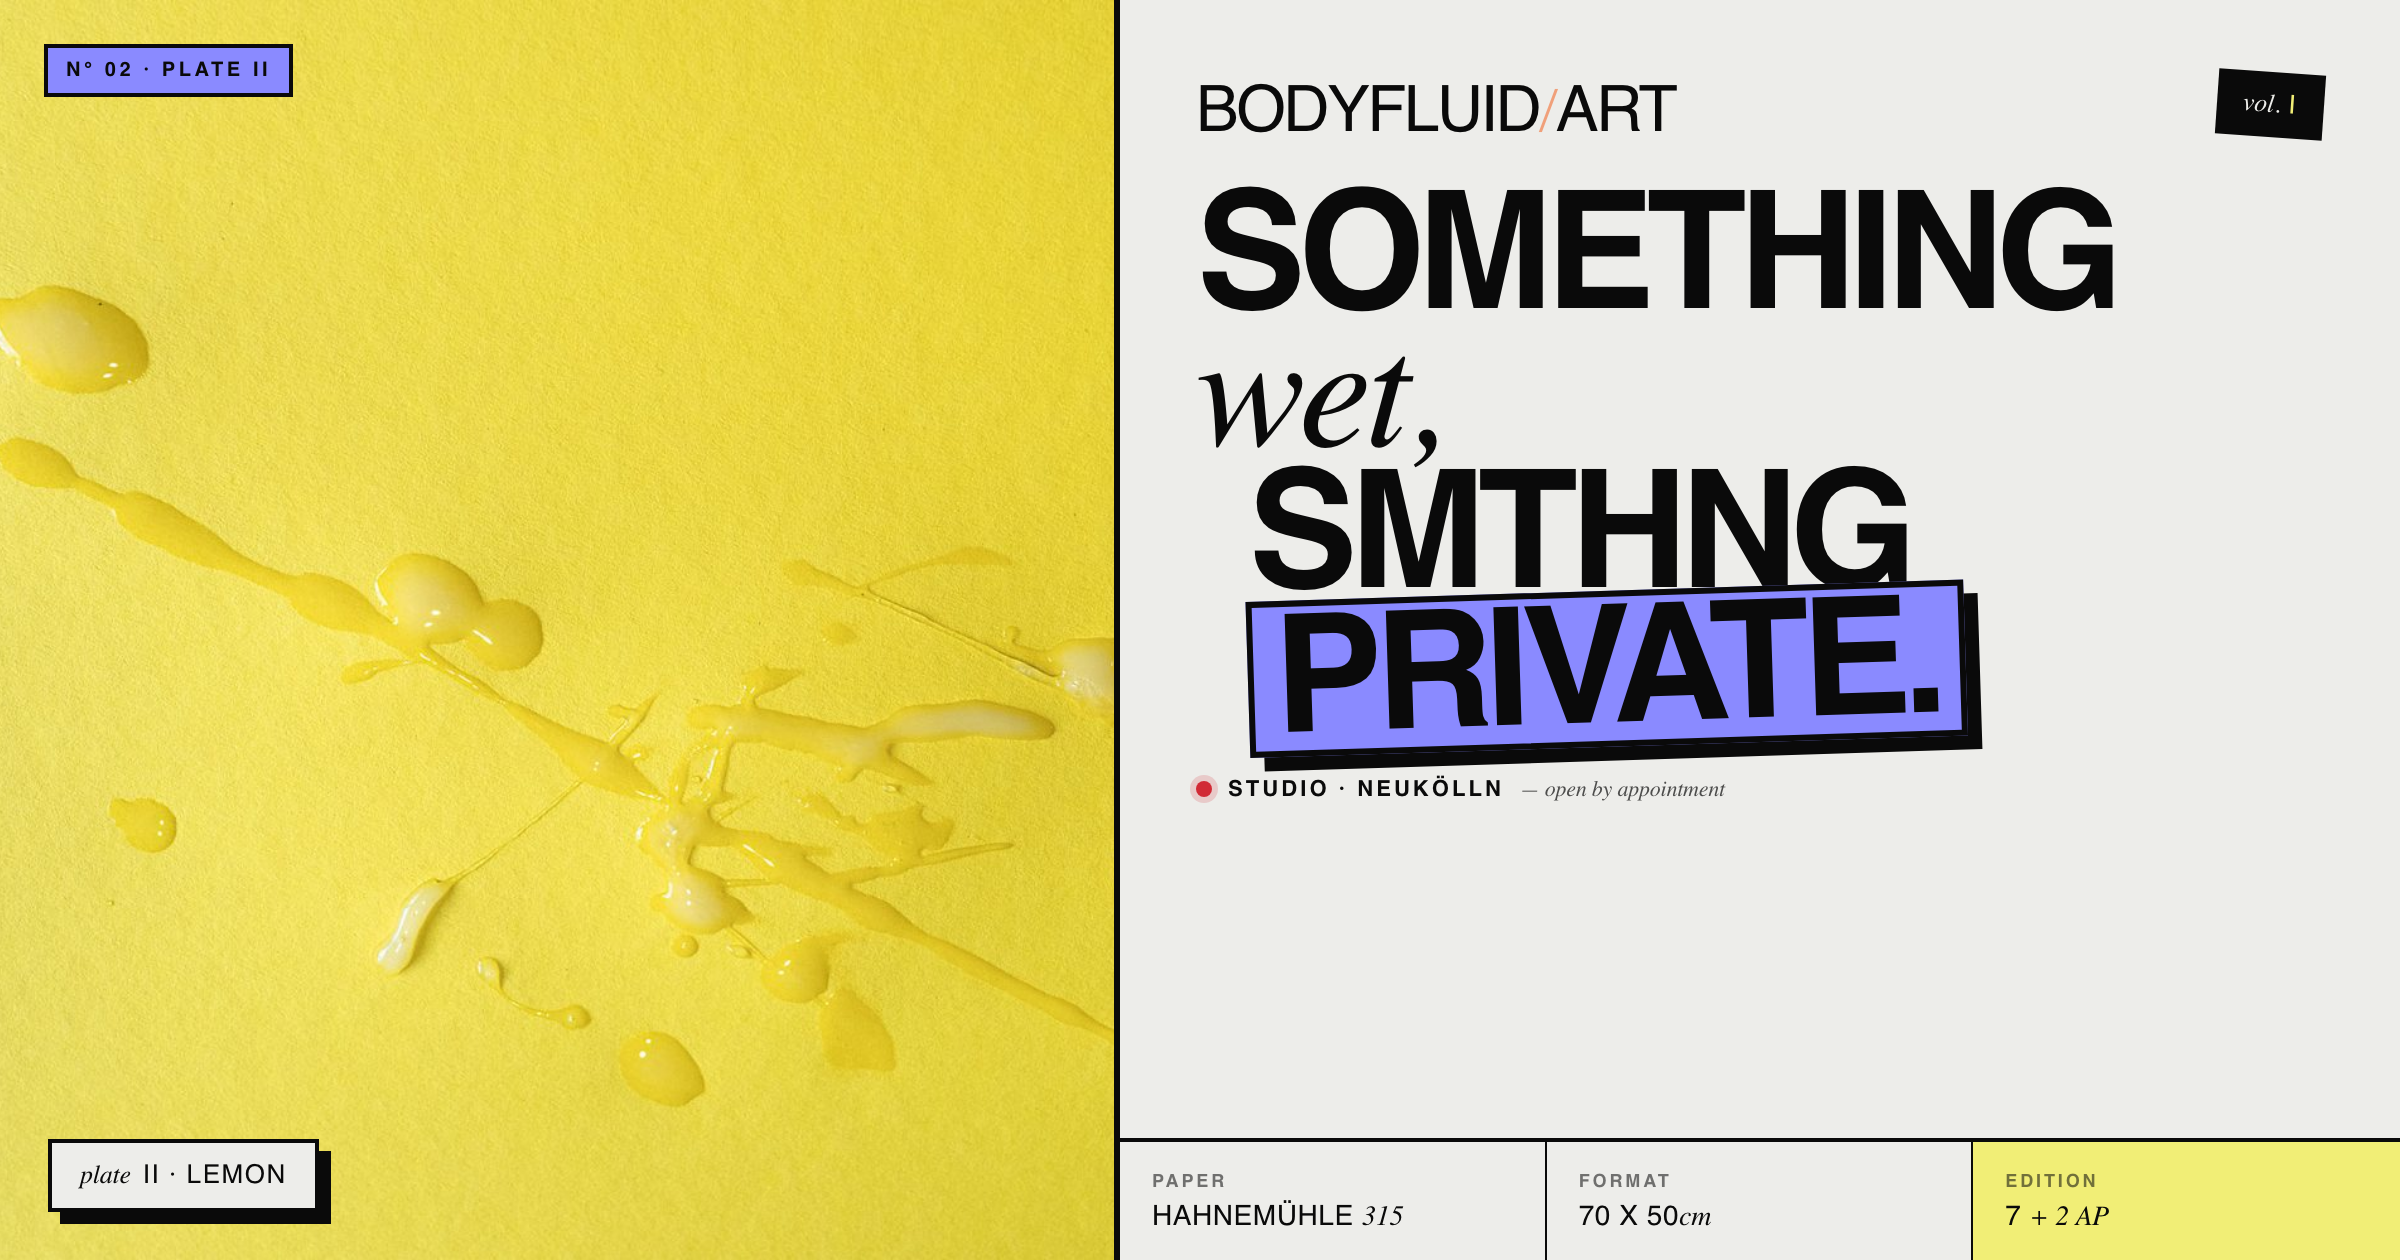
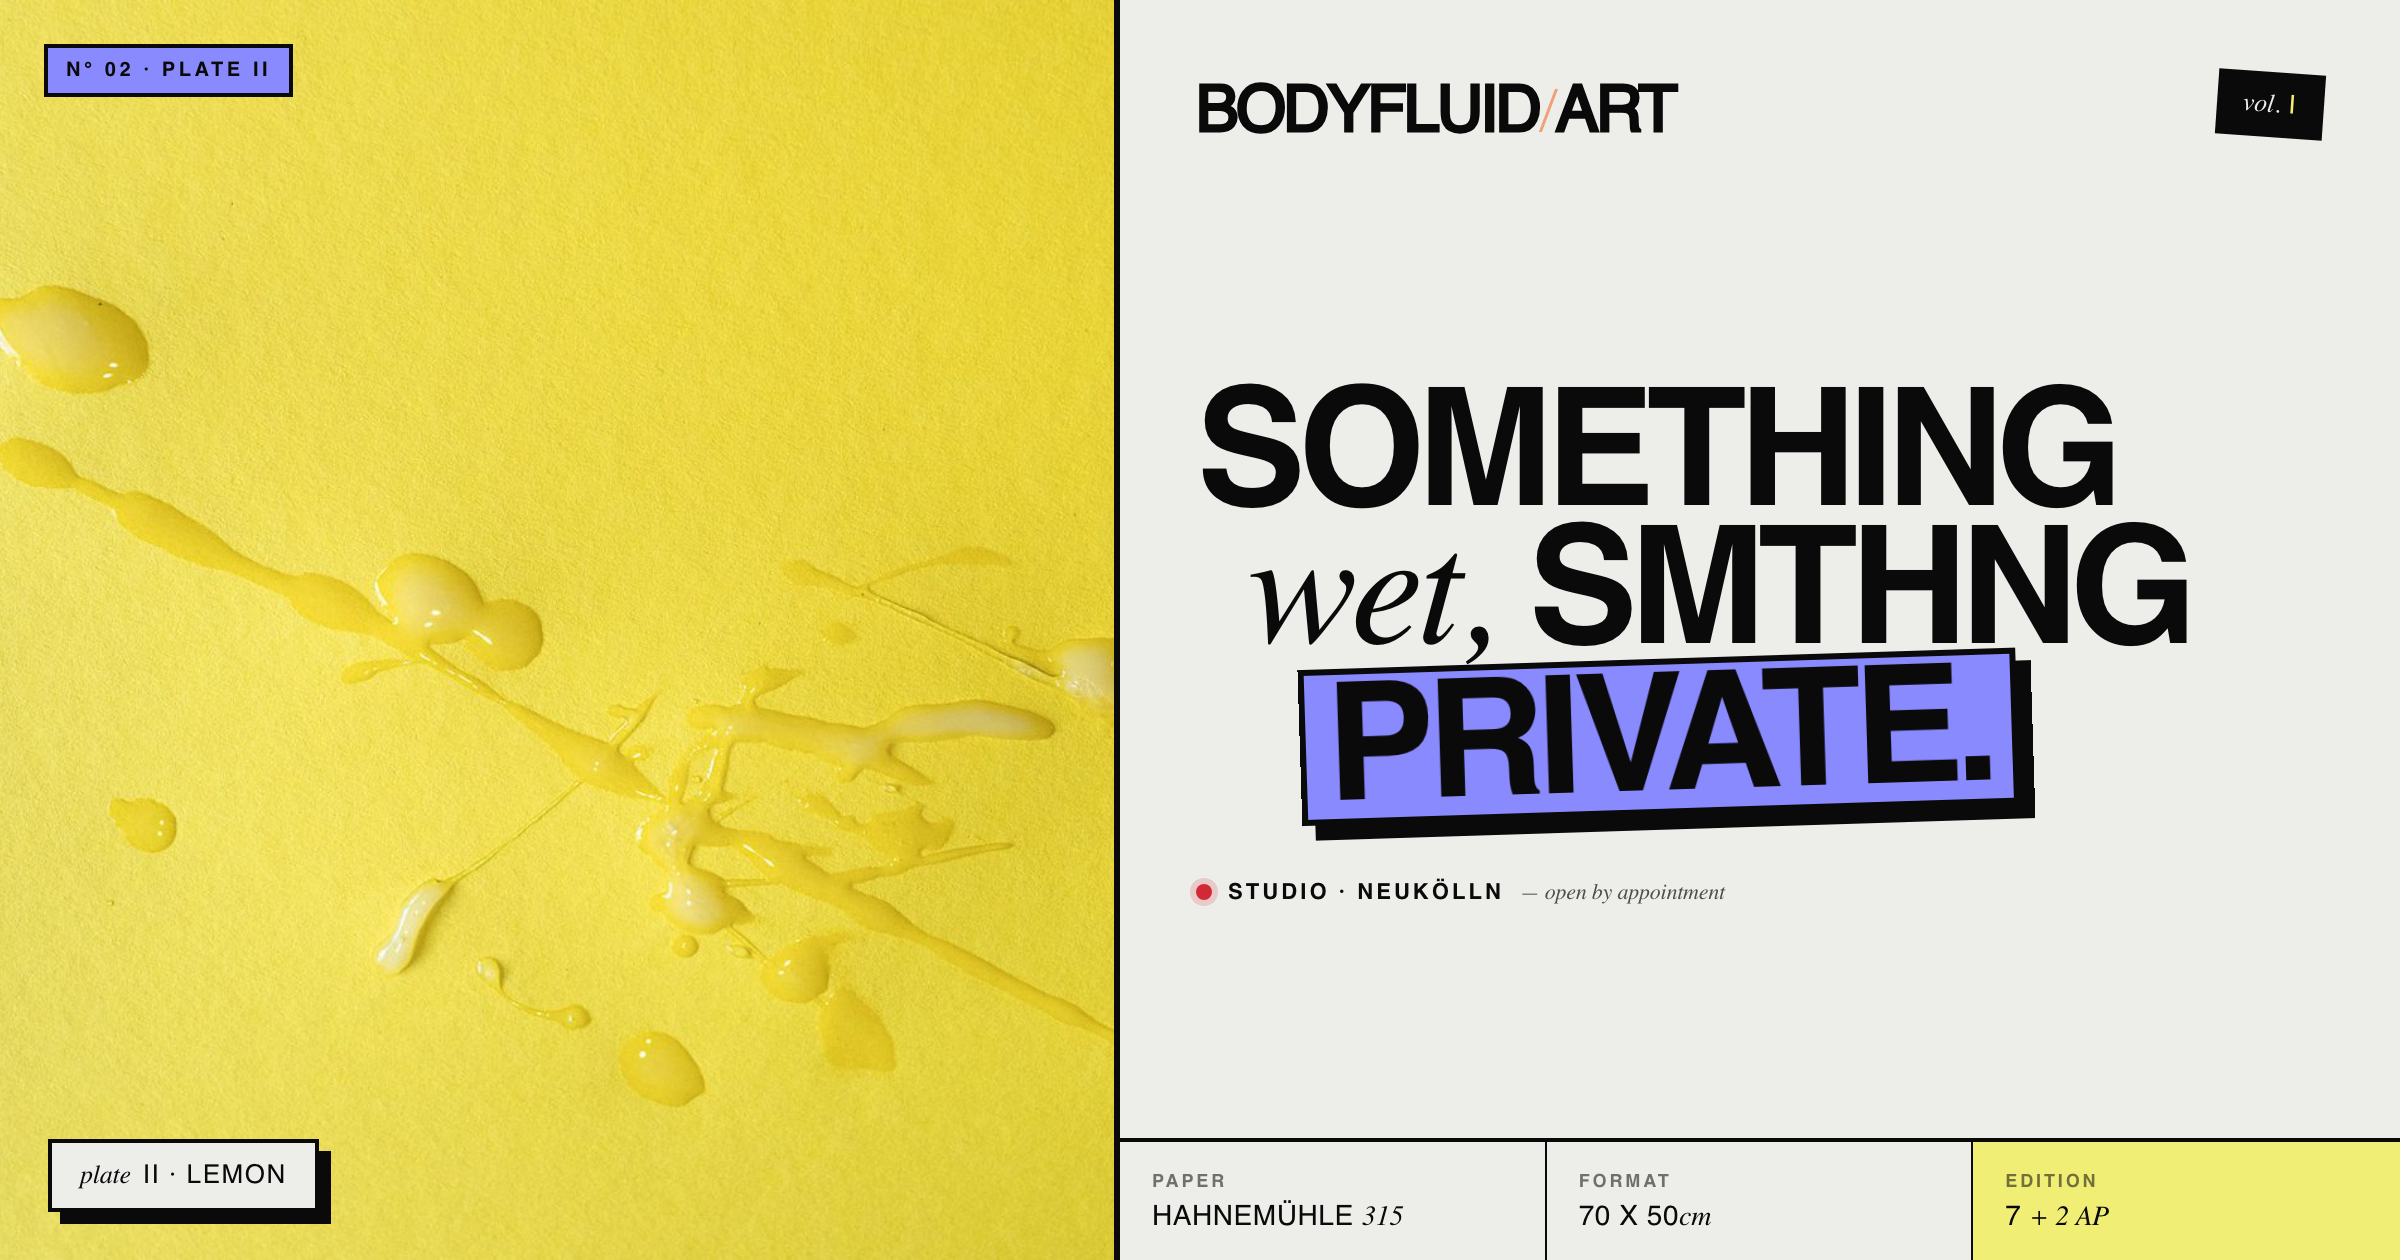
tweaks

Changed region(s): [[0.5, 0.2786, 0.9375, 0.7119], [0.5, 0.0619, 0.9062, 0.2476]]

diff --git a/og-preview.html b/og-preview.html
@@ -101,7 +101,12 @@
     padding: 36px 38px 30px;
     display: flex;
     flex-direction: column;
-    justify-content: space-between;
+  }
+  .og .type-panel .middle {
+    flex: 1;
+    display: flex;
+    flex-direction: column;
+    justify-content: center;
   }
 
   /* top meta row */
@@ -116,6 +121,8 @@
     font-size: 32px;
     letter-spacing: -0.04em;
     text-transform: uppercase;
+    -webkit-text-stroke: 1.5px var(--ink);
+    paint-order: stroke fill;
   }
   .og .top .brand em {
     font-family: 'Newsreader', serif;
@@ -124,6 +131,7 @@
     color: var(--coral);
     text-transform: none;
     letter-spacing: -0.02em;
+    -webkit-text-stroke: 0;
   }
   .og .top .vol-tag {
     background: var(--ink);
@@ -153,20 +161,17 @@
     line-height: 0.84;
     text-transform: uppercase;
     font-size: 82px;
-    margin-top: 18px;
   }
   .og .megatype .l1 { display: block; }
   .og .megatype .l2 {
     display: block;
     padding-left: 26px;
+    white-space: nowrap;
   }
   .og .megatype .l3 {
     display: block;
-    font-size: 34px;
-    line-height: 1;
-    margin-top: 14px;
-    letter-spacing: -0.03em;
-    color: var(--ink);
+    padding-left: 52px;
+    margin-top: 4px;
   }
   .og .megatype .ital {
     font-family: 'Newsreader', serif;
@@ -181,8 +186,10 @@
     color: var(--ink);
     padding: 0 0.12em 0.04em;
     border: 3px solid var(--ink);
-    transform: rotate(-1.8deg) translateY(-0.05em);
-    box-shadow: 7px 7px 0 var(--ink);
+    transform: rotate(-1.8deg) translateY(-0.05em) translateZ(0);
+    box-shadow: 7px 7px 0 0.5px var(--ink);
+    will-change: transform;
+    backface-visibility: hidden;
   }
   .og .megatype .punct {
     color: var(--coral);
@@ -238,7 +245,7 @@
     display: flex;
     align-items: center;
     gap: 8px;
-    margin-top: 10px;
+    margin-top: 28px;
     font-size: 11px;
     font-weight: 700;
     text-transform: uppercase;
@@ -275,15 +282,16 @@
     <!-- RIGHT: type -->
     <div class="type-panel">
 
-      <div>
-        <div class="top">
-          <div class="brand">BODYFLUID<em>/</em>ART</div>
-          <div class="vol-tag"><em>vol.</em>I</div>
-        </div>
+      <div class="top">
+        <div class="brand">BODYFLUID<em>/</em>ART</div>
+        <div class="vol-tag"><em>vol.</em>I</div>
+      </div>
 
+      <div class="middle">
         <h1 class="megatype">
-          <span class="l1">SOMETHING <span class="ital">wet,</span></span>
-          <span class="l2">SMTHNG <span class="pop">PRIVATE.</span></span>
+          <span class="l1">SOMETHING</span>
+          <span class="l2"><span class="ital">wet,</span>&nbsp;SMTHNG</span>
+          <span class="l3"><span class="pop">PRIVATE.</span></span>
         </h1>
 
         <div class="live-row">

diff --git a/index.html b/index.html
@@ -240,8 +240,10 @@
     color: var(--ink);
     padding: 0 0.1em 0.04em;
     border: 2px solid var(--ink);
-    transform: rotate(-1.5deg) translateY(-0.05em);
-    box-shadow: 8px 8px 0 var(--ink);
+    transform: rotate(-1.5deg) translateY(-0.05em) translateZ(0);
+    box-shadow: 8px 8px 0 0.5px var(--ink);
+    will-change: transform;
+    backface-visibility: hidden;
   }
   .hero-type .pop.lemon { background: var(--lemon); }
   .hero-type .pop.coral { background: var(--coral); }